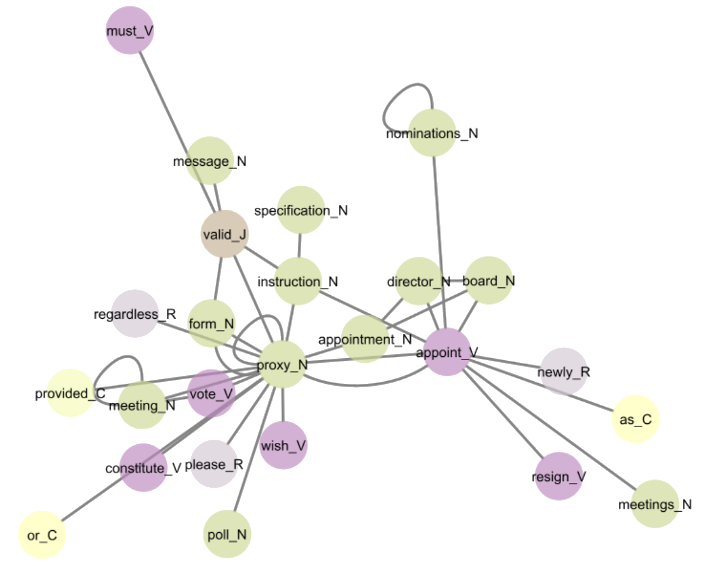
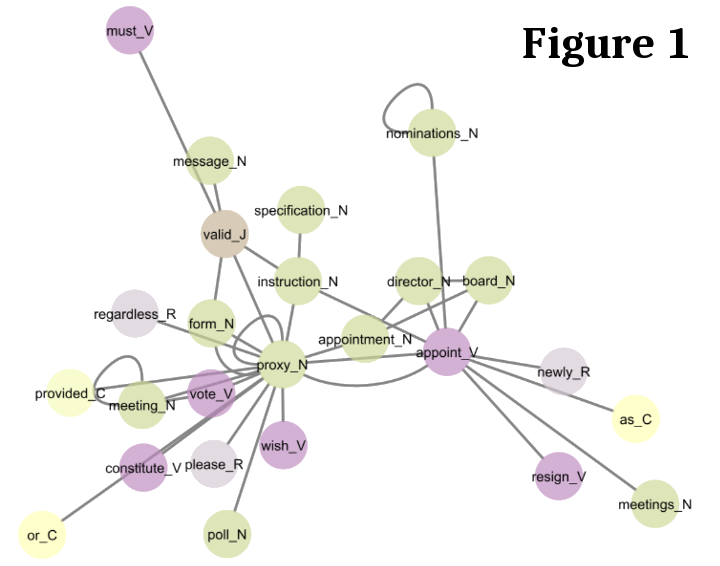
figures fixed

Changed region(s): [[0.7333, 0.03, 0.9472, 0.1201]]

diff --git a/index.html b/index.html
@@ -317,22 +317,23 @@
                     structure, and aboutness (Pecina, 2010; Xiao & McEnery, 2006; Brezina, 2016; Baker, 2016; Brezina et
                     al., 2015) of the respective registers in the BNC2014. MCODE clustering (Bader & Hogue, 2003) is
                     employed in order to identify the collocationally most closely-interconnected clusters unique to
-                    each register. Employing this methodology serves two purposes: Firstly, it allows for a systematic
+                    each register. 
+                    <span class="image left"> <img src="images/fulls/ICAME45_Fig1.png"
+                      alt="ICAME presentations 2024"/></span>
+                      Employing this methodology serves two purposes: Firstly, it allows for a systematic
                     and fully interpretable exploration of large-scale differences in collocational tendencies among
                     different registers of modern British English, and, secondly, it showcases which new avenues for
                     interpretation a novel approach to collocation visualisation can bring. On a broader scale, notable
                     collocational convergence is observed, with the highest overlap occurring between Magazines and News
                     (20.2%), Spoken and Written-to-be-Spoken (19.9%), and E-Language and Spoken (19.6%). Conversely, the
                     lowest overlap is evident between Official Documents and Written-to-be-Spoken (2.0%), Academic
-                    Language and Written-to-be-Spoken (2.3%), and Fiction and Official Documents (3.2%). Figures 1 and 2
+                    Language and Written-to-be-Spoken (2.3%), and Fiction and Official Documents (3.2%). 
+                    <span class="image right"> <img
+                      src="images/fulls/ICAME45_Fig2.png" alt="ICAME presentations 2024" /></span> Figures 1 and 2
                     show key clusters from the opposing domains of Official Documents and Written-To-Be-Spoken
                     respectively. This novel multidisciplinary approach integrating corpus linguistics and graph theory
                     with MCODE clustering presents a new way for systematically exploring register variation. </br>
-                    <span class="image fit"> <img src="images/fulls/ICAME45_Fig1.png"
-                            alt="ICAME presentations 2024" /></span> Figure 1: Subcluster containing collocates
-                    unique to Official Documents in the BNC2014. </br></br><span class="image fit"> <img
-                            src="images/fulls/ICAME45_Fig2.png" alt="ICAME presentations 2024" /></span> Figure 2:
-                    Subcluster containing collocates unique to Written-To-Be-Spoken in the BNC2014. </br> </p>
+                    <span style="font-size:0.7em">Figure 1: Subcluster containing collocates unique to Official Documents in the BNC2014. </br> Figure 2: Subcluster containing collocates unique to Written-To-Be-Spoken in the BNC2014. </br></span></p>
             </section>
             <section id="six">
                 <h2>Invited talks/ guest lectures </h2>
